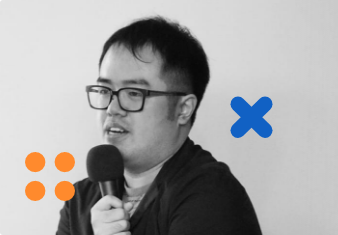
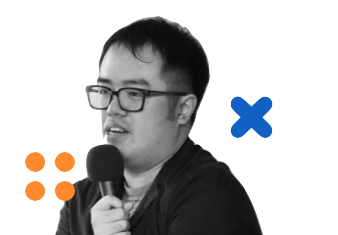
更新部分頁面連結 & 樣式調整

diff --git a/tgee/templates/index.html b/tgee/templates/index.html
@@ -234,40 +234,39 @@
   <div class="container py-6">
     <h2 class="h1 mb-3">各界推薦</h2>
     <div class="shadow rounded js-slick bg-white">
+      {% for i in range(3) %}
       <div>
-        <div class="tgee-card flex-md-row">
-          <div class="tgee-card-img"
-            style="background-image: url({{ static('home/recommend.png') }}); height: 200px; width: 500px;"></div>
+        <div class="tgee-card flex-md-row fancy-bg" >
+          <div class="tgee-card-img" style="background-image: url({{ static('home/recommend.png') }}); height: 200px; width: 500px;"></div>
           <div class="tgee-card-body">
             <h2>鄭祤呈</h2>
             <p>好奇心創意 營運長</p>
-            <p class="mb-0">這裡真的很棒！你真的要加入看看！真心推薦想要創作遊戲的朋友
+            <p class="pr-6 mb-0">這裡真的很棒！你真的要加入看看！真心推薦想要創作遊戲的朋友
+              一定要加入這個平台，在這裡你可以完成你的夢想。讓你的遊戲創
+              作旅程從這開始吧。</p>
+          </div>
+        </div>
+      </div>
+      {% endfor %}
+      <div>
+        <div class="tgee-card flex-md-row fancy-bg">
+          <div class="tgee-card-img" style="background-image: url({{ static('home/recommend.png') }}); height: 200px; width: 500px;"></div>
+          <div class="tgee-card-body">
+            <h2>鄭祤呈</h2>
+            <p>好奇心創意 營運長</p>
+            <p class="pr-6 mb-0">這裡真的很棒！你真的要加入看看！真心推薦想要創作遊戲的朋友
               一定要加入這個平台，在這裡你可以完成你的夢想。讓你的遊戲創
               作旅程從這開始吧。</p>
           </div>
         </div>
       </div>
       <div>
-        <div class="tgee-card flex-md-row">
-          <div class="tgee-card-img"
-            style="background-image: url({{ static('home/recommend.png') }}); height: 200px; width: 500px;"></div>
+        <div class="tgee-card flex-md-row fancy-bg">
+          <div class="tgee-card-img" style="background-image: url({{ static('home/recommend.png') }}); height: 200px; width: 500px;"></div>
           <div class="tgee-card-body">
             <h2>鄭祤呈</h2>
             <p>好奇心創意 營運長</p>
-            <p class="mb-0">這裡真的很棒！你真的要加入看看！真心推薦想要創作遊戲的朋友
-              一定要加入這個平台，在這裡你可以完成你的夢想。讓你的遊戲創
-              作旅程從這開始吧。</p>
-          </div>
-        </div>
-      </div>
-      <div>
-        <div class="tgee-card flex-md-row">
-          <div class="tgee-card-img"
-            style="background-image: url({{ static('home/recommend.png') }}); height: 200px; width: 500px;"></div>
-          <div class="tgee-card-body">
-            <h2>鄭祤呈</h2>
-            <p>好奇心創意 營運長</p>
-            <p class="mb-0">這裡真的很棒！你真的要加入看看！真心推薦想要創作遊戲的朋友
+            <p class="pr-6 mb-0">這裡真的很棒！你真的要加入看看！真心推薦想要創作遊戲的朋友
               一定要加入這個平台，在這裡你可以完成你的夢想。讓你的遊戲創
               作旅程從這開始吧。</p>
           </div>
@@ -288,4 +287,24 @@
     </div>
   </div>
 </div>
+
+<style>
+
+  .fancy-bg {
+    position: relative;
+    background: rgb(237,237,237);
+    background: linear-gradient(90deg, rgba(237,237,237,1) 0%, rgba(194,194,194,1) 34%, rgba(181,181,181,1) 51%, rgba(227,227,227,1) 100%);
+  }
+
+  .fancy-bg::after {
+    content: '';
+    background-color: #1161C4;
+    position: absolute;
+    width: 150px;
+    height: 1000px;
+    right: 0;
+    top: 0;
+    transform: translate(50%, -50%) rotate(15deg);
+  }
+</style>
 {% endblock %}

diff --git a/tgee/templates/partials/navbar.html b/tgee/templates/partials/navbar.html
@@ -24,9 +24,9 @@
         <div class="p-2 flex-fill text-center border border-light-blue border-right-0">合作聯繫</div>
       </div>
       <div class="list-group list-group-flush collapse" id="navbar-collapse-my" data-parent="#navbar-mobile-collapse">
-        <a class="list-group-item" href="{{url('home')}}">個人資料</a>
-        <a class="list-group-item" href="{{url('home')}}">文章管理</a>
-        <a class="list-group-item" href="{{url('home')}}">專屬服務</a>
+        <a class="list-group-item" href="/teams/1/show">個人資料</a>
+        <a class="list-group-item" href="{{url('articles_manage')}}">文章管理</a>
+        <a class="list-group-item" href="{{url('service_logged_in')}}">專屬服務</a>
         <a class="list-group-item" href="{{url('home')}}"><i class="fas fa-sign-out-alt"></i>登出</a>
       </div>
       <div class="list-group list-group-flush" data-parent="#navbar-mobile-collapse" id="navbar-collapse-links">
@@ -79,9 +79,9 @@
           <img src="{{static('icons/icon-user.svg')}}" style="width: 16px; height: 16px;">
         </div>
         <div class="dropdown-menu dropdown-menu-center" aria-labelledby="dropdownMenu2">
-          <button class="dropdown-item" type="button">個人資料</button>
-          <button class="dropdown-item" type="button">文章管理</button>
-          <button class="dropdown-item" type="button">專屬服務</button>
+          <a href="/teams/1/show" class="dropdown-item text-gray-1">個人資料</a>
+          <a href="{{url('articles_manage')}}" class="dropdown-item text-gray-1">文章管理</a>
+          <a href="{{url('service_logged_in')}}" class="dropdown-item text-gray-1">專屬服務</a>
         </div>
       </div>
       <div class="mx-2 border border-white" style="height: 20px;"></div>

diff --git a/tgee/templates/partials/footer.html b/tgee/templates/partials/footer.html
@@ -35,9 +35,9 @@
             <span>相關連結</span>
           </div>
           <div class="footer-collapse collapse" id="footer-collapse-3" data-parent="#footer">
-            <a class="item" href="{{url('home')}}">TIGEA</a>
-            <a class="item" href="{{url('home')}}">創夢市集</a>
-            <a class="item" href="{{url('home')}}">好奇心創意</a>
+            <a class="item" href="https://www.tigea.tw/">TIGEA</a>
+            <a class="item" href="https://www.ditstartup.com/">創夢市集</a>
+            <a class="item" href="https://haoqi.tw/">好奇心創意</a>
           </div>
         </div>
         <div class="flex-grow-1">
@@ -48,7 +48,7 @@
             <span>與我們聯絡</span>
           </div>
           <div class="footer-collapse collapse" id="footer-collapse-4" data-parent="#footer">
-            <a class="item" href="https://www.facebook.com/DITStartup/">FB粉絲團</a>
+            <a class="item" href="https://www.facebook.com/tigea.tw">FB粉絲團</a>
             <a class="item" href="mailto: Gamesupport01@gmail.com">Gamesupport01@gmail.com</a>
           </div>
         </div>

diff --git a/tgee/templates/user/email_valid.html b/tgee/templates/user/email_valid.html
@@ -1,0 +1,7 @@
+{% extends "./user/_base.html" %}
+
+{% block form_content %}
+<h1 class="mb-2">歡迎加入創夢的新創圓夢網</h1>
+<p class="mb-3">離成功只差一步，請至您的信箱收取會員認證信，啟動驗證連結即可完成會員申請。</p>
+<a href="{{url('home')}}" class="btn rounded-pill btn-outline-gray-1">重發驗證信</a>
+{% endblock %}

diff --git a/tgee/templates/teams/show.html b/tgee/templates/teams/show.html
@@ -2,7 +2,7 @@
 
 {% block content %}
 <div class="position-md-relative py-md-6">
-  <div class="blur-banner position-relative position-md-absolute">
+  <div class="blur-banner position-relative position-md-absolute bg-white">
     <div class="blur-banner-img" style="background-image: url({{ static(team.img) }});"></div>
   </div>
   <div class="container px-0">

diff --git a/tgee/templates/user/login.html b/tgee/templates/user/login.html
@@ -17,5 +17,5 @@
   <input type="checkbox" placeholder="https://example.com" />
   我同意&nbsp;<a href="#">使用條款與隱私權政策說明</a>
 </div>
-<a href="{{url('home')}}" class="btn rounded-pill btn-orange">註冊</a>
+<a href="{{url('email_valid')}}" class="btn rounded-pill btn-orange">註冊</a>
 {% endblock %}

diff --git a/tgee/templates/user/signup_premium.html b/tgee/templates/user/signup_premium.html
@@ -75,5 +75,5 @@
     </div>
   </div>
 </div>
-<a href="{{url('home')}}" class="btn rounded-pill btn-orange">申請</a>
+<a href="{{url('signup_premium_review')}}" class="btn rounded-pill btn-orange">申請</a>
 {% endblock %}

diff --git a/tgee/urls.py b/tgee/urls.py
@@ -42,6 +42,7 @@ urlpatterns = [
     path('our/faq/', views.faq, name='faq'),
 
     path('user/login/', views.login, name='login'),
+    path('user/email_valid/', views.email_valid, name='email_valid'),
     path('user/reset_password/', views.reset_password, name='reset_password'),
     path('user/reset_password_success/', views.reset_password_success, name='reset_password_success'),
     path('user/signup_premium_review/', views.signup_premium_review, name='signup_premium_review'),

diff --git a/tgee/views.py b/tgee/views.py
@@ -251,6 +251,10 @@ def not_found(request):
 def login(request):
     return render(request, 'user/login.html')
 
+# 登入
+def email_valid(request):
+    return render(request, 'user/email_valid.html')
+
 # 重設密碼
 def reset_password(request):
     return render(request, 'user/reset_password.html')
